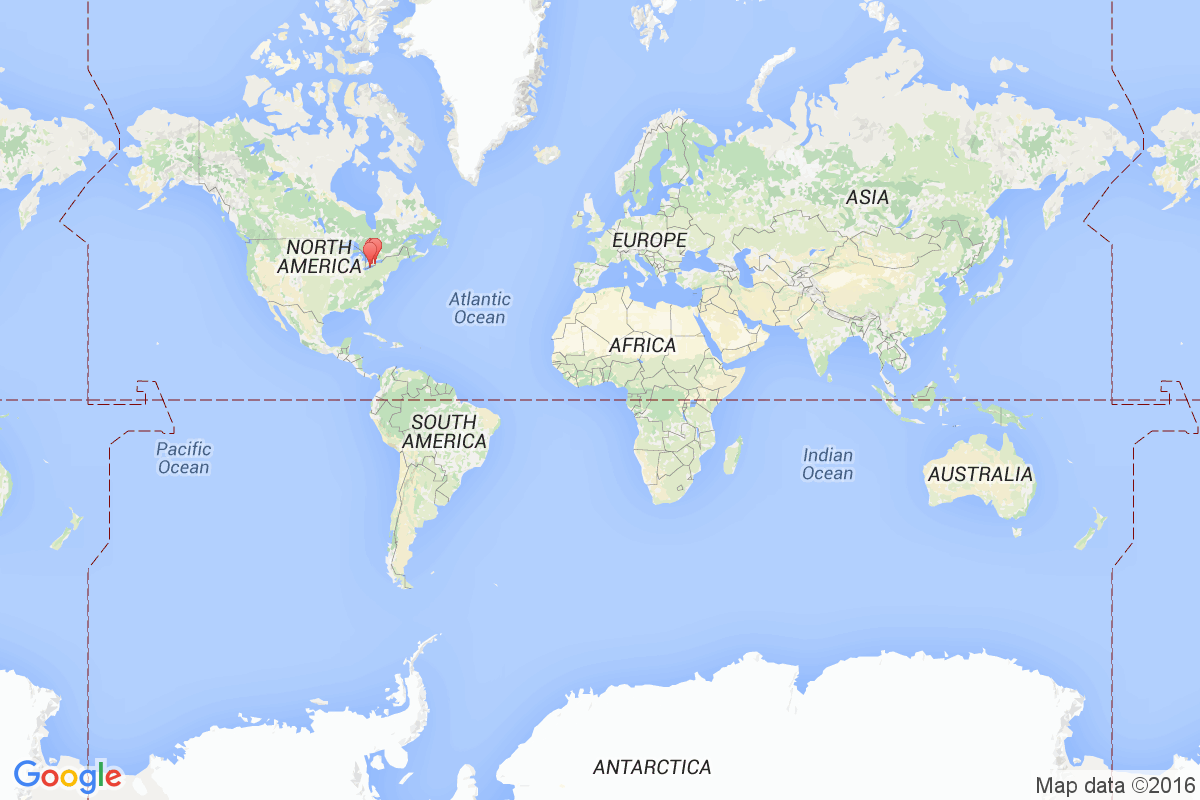
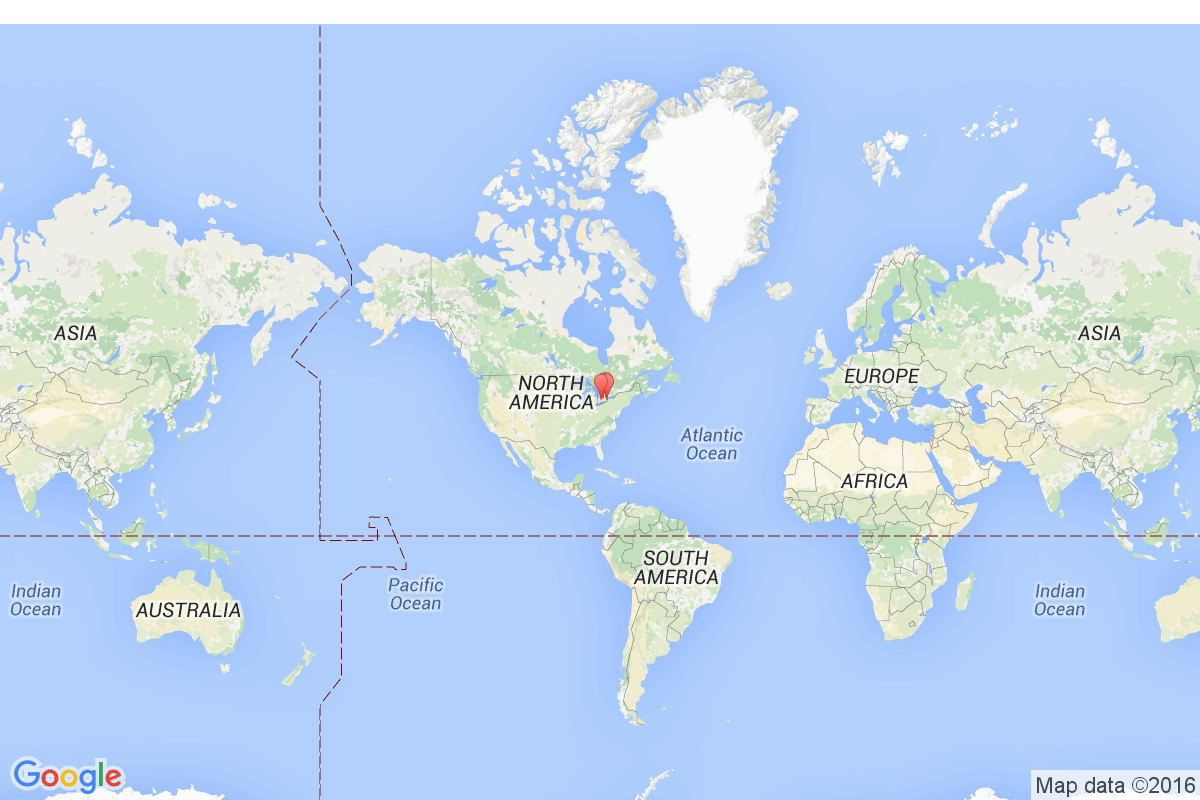
Added map zoom buttons, list of locations

diff --git a/FitBitApp/src/main/java/ca/uwo/csd/cs2212/team10/MainTabWindow.java b/FitBitApp/src/main/java/ca/uwo/csd/cs2212/team10/MainTabWindow.java
@@ -26,6 +26,7 @@ import javax.swing.SwingUtilities;
 import javax.swing.UIManager;
 import javax.swing.border.MatteBorder;
 import javax.swing.UIManager;
+import javax.swing.BoxLayout;
 
 import java.awt.BorderLayout;
 import java.awt.Dimension;
@@ -558,24 +559,48 @@ public class MainTabWindow extends JPanel {
         // Create map object
         JLabel worldMap;
         Map map; 
+        panelMap.add(lblMap, BorderLayout.PAGE_START);
+        final JPanel mapButtonPanel = new JPanel();
+        
+        final JButton zoomOut = new JButton("Zoom  -");
+        final JButton zoomIn = new JButton("Zoom +");
+        final JButton setLocation = new JButton("Set Location"); 
+
+        mapButtonPanel.setLayout(new BoxLayout(mapButtonPanel,BoxLayout.Y_AXIS));
+        mapButtonPanel.add(zoomOut);
+        mapButtonPanel.add(zoomIn); 
+        mapButtonPanel.add(setLocation);
+        mapButtonPanel.setPreferredSize(new Dimension(175,400));
+		mapButtonPanel.setBackground(new Color(40, 40, 40));
+
+        final JPanel mapPanel = new JPanel();
+        mapPanel.setLayout(new BorderLayout());
+        mapPanel.setPreferredSize(new Dimension(600,400));
+        mapPanel.setMaximumSize(new Dimension(600,400));
+		mapPanel.setBackground(new Color(40, 40, 40));
         try {
             map = new Map(fitbit);
             map.calculateDistances(); 
-            map.writeToJSONFile();
             map.refreshMap();
-            worldMap = new JLabel((new ImageIcon(map.getMap())));
-            panelMap.add(worldMap);
+            worldMap = new JLabel(new ImageIcon((new ImageIcon(map.getMap(1))).getImage().getScaledInstance(600,400,java.awt.Image.SCALE_SMOOTH)));
+            mapPanel.add(worldMap, BorderLayout.NORTH);
+            map.writeToJSONFile();
         } catch(Exception e) {
             e.printStackTrace(); 
         }
+
+        final JPanel mapListPanel = new JPanel();
+        mapListPanel.setLayout(new BoxLayout(mapListPanel,BoxLayout.Y_AXIS)); 
+        mapListPanel.setPreferredSize(new Dimension(200,400));
+        mapListPanel.setMaximumSize(new Dimension(200,400));
+		mapListPanel.setBackground(new Color(40, 40, 40));
+        JLabel test = new JLabel("test");
+        mapListPanel.add(test);
+
+        panelMap.add(mapListPanel, BorderLayout.LINE_START);  
+        panelMap.add(mapPanel, BorderLayout.CENTER);
+        panelMap.add(mapButtonPanel, BorderLayout.LINE_END);
         
-        
-        
-        
-        
-        
-        
-        //panelMap.add(lblMap);
 		
 
 		//panel where the buttons are added 
@@ -649,7 +674,7 @@ public class MainTabWindow extends JPanel {
 
 		//add button Map
         JToggleButton tglbtnMap;
-		tglbtnMap = new JToggleButton("Map                ");
+		tglbtnMap = new JToggleButton("Map                     ");
 		panel_1.add(tglbtnMap);
 		tglbtnMap.setBackground(new Color(55,55,55));
 		//show the Maps panel  and hide the rest

diff --git a/FitBitApp/src/main/java/ca/uwo/csd/cs2212/team10/Map.java b/FitBitApp/src/main/java/ca/uwo/csd/cs2212/team10/Map.java
@@ -224,10 +224,11 @@ public class Map {
     
     /**
      * Method retrieves a map containing markers of all the cities that have been reached
+     * @param Integer value that will be set from 1-8. 
      * @return String that contains the file path of the map
      * @throws IOException Method uses IO to save image
      */
-    public String getMap() throws IOException { 
+    public String getMap(int zoom) throws IOException { 
         // Get large map from API call, return path to image
 
         String imageFile = "src/main/resources/locationImages/map.png";
@@ -241,15 +242,17 @@ public class Map {
         for(int i =0; i < this.locations.length; i++) {
             if(this.locations[i].getAchieved()) {
 
-                lat = (int)Double.parseDouble(locations[i].getCoordinates().substring(0,locations[i].getCoordinates().indexOf(',')));
+                /*lat = (int)Double.parseDouble(locations[i].getCoordinates().substring(0,locations[i].getCoordinates().indexOf(',')));
                 lng = (int)Double.parseDouble(locations[i].getCoordinates().substring(locations[i].getCoordinates().indexOf(',')+1,locations[i].getCoordinates().length()));
-                markers = markers + lat + "," + lng + "%7C";
+                markers = markers + lat + "," + lng + "%7C";*/
+                markers = markers + this.locations[i].getCoordinates() + "%7C";
             }
         }
 
-        String imageURL = "https://maps.googleapis.com/maps/api/staticmap?center=0,0&zoom=1&size=600x400&scale=2&markers=size:tiny%7Ccolor:red%7C" + markers + "&key=AIzaSyA3qYxpHJKnTbHfW1oRcCSpycKqKUvwvV0";
+        String imageURL = "https://maps.googleapis.com/maps/api/staticmap?center=" + this.currentLocation.getName().replaceAll("\\s","%20")  + "&zoom=" + zoom + "&size=600x400&scale=2&markers=size:tiny%7Ccolor:red%7C" + markers + "&key=AIzaSyA3qYxpHJKnTbHfW1oRcCSpycKqKUvwvV0";
 
         System.out.println(imageURL.length());
+        System.out.println(imageURL.substring(0,imageURL.length()-44));
 
         BufferedImage image = null;
         URL url = new URL(imageURL);
